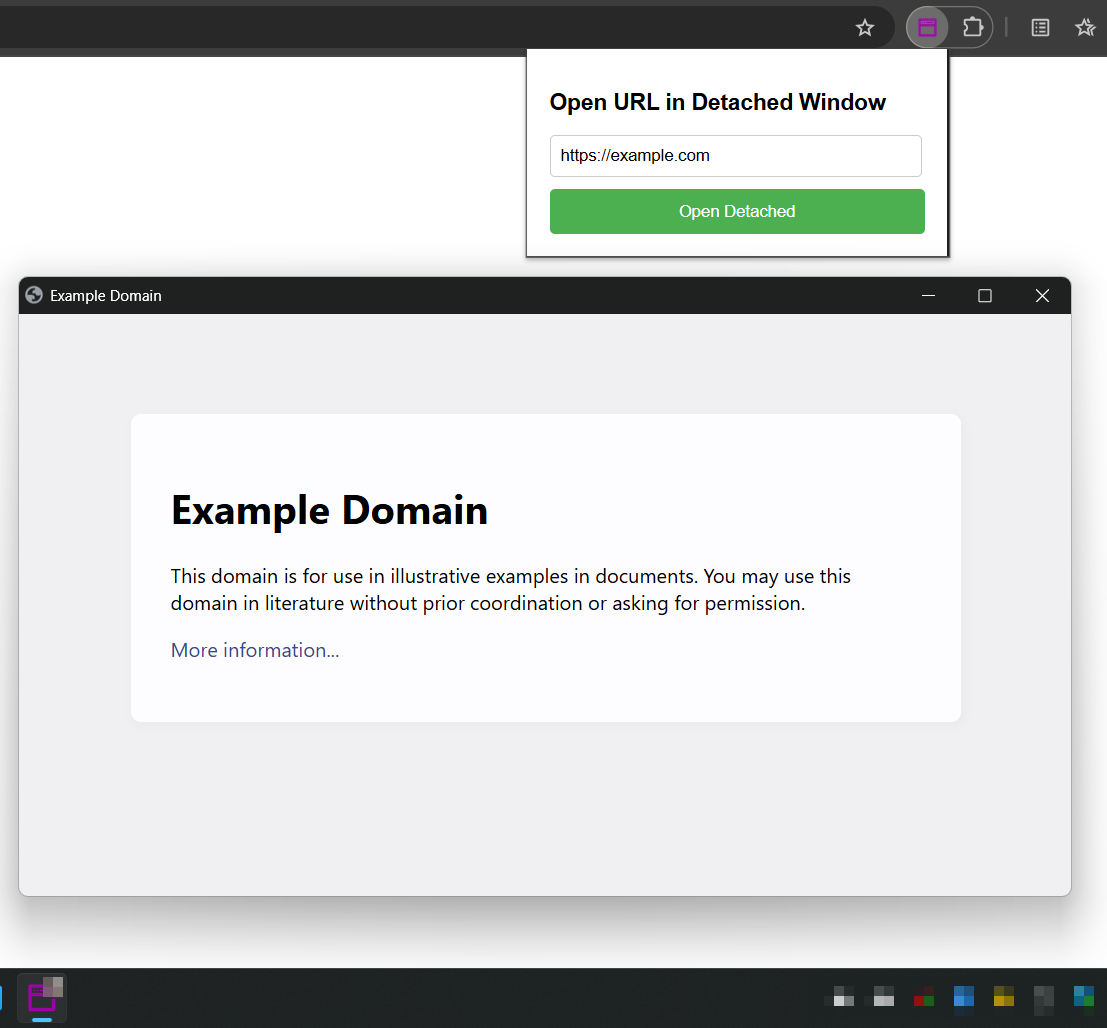
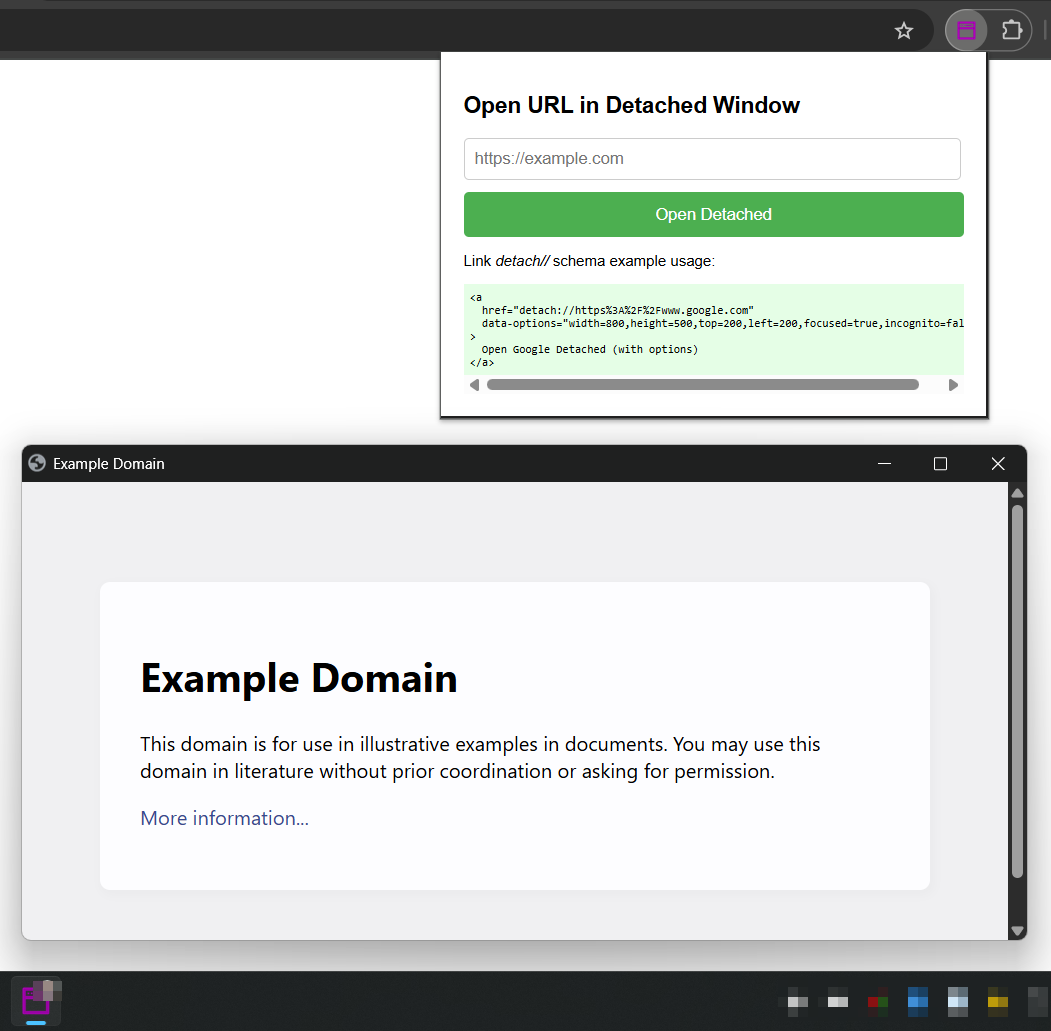
mods: popup preview

Changed region(s): [[0.0, 0.0, 1.0, 0.9961], [0.1218, 0.716, 0.7916, 0.8093], [0.1218, 0.6226, 0.4567, 0.6848]]

diff --git a/popup.js b/popup.js
@@ -1,12 +1,11 @@
 // popup.js
 
 document.addEventListener('DOMContentLoaded', function() {
-  const urlInput = document.getElementById('urlInput');
-  const openButton = document.getElementById('openButton');
-
-  openButton.addEventListener('click', function() {
-    let url = urlInput.value.trim();
-    if (!url) url = 'https://www.google.com'; // default example
+  const input = document.getElementById('input');
+  const open = document.getElementById('open');
+  open.addEventListener('click', function() {
+    let url = input.value.trim();
+    if (!url) url = 'https://example.com'; // default
     if (url) {
       // Send a message to the background script
       chrome.runtime.sendMessage({

diff --git a/popup.html b/popup.html
@@ -39,8 +39,8 @@
 </head>
 <body>
   <h2>Open URL in Detached Window</h2>
-  <input type="text" id="urlInput" placeholder="Enter URL (e.g. https://www.google.com)">
-  <button id="openButton">Open Detached</button>
+  <input type="text" id="input" placeholder="https://example.com">
+  <button id="open">Open Detached</button>
   <br>
   <p>Link <em>detach//</em> schema example usage:</p>
   <code>
